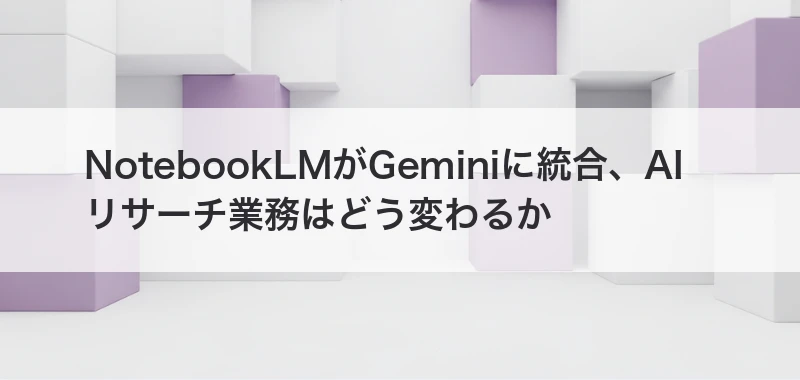
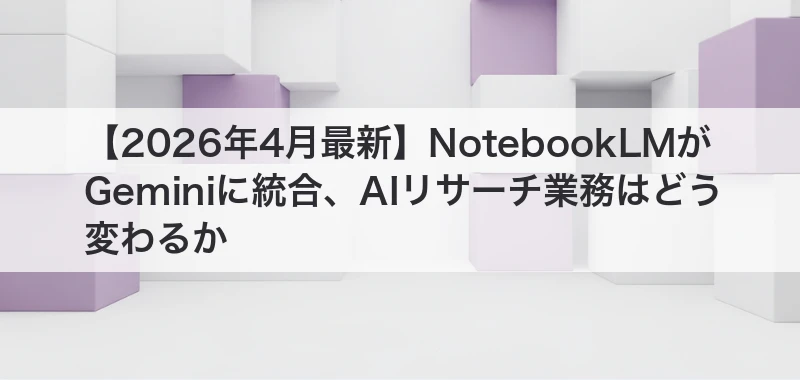
Refine blog096 sourcing and guidance

Changed region(s): [[0.0938, 0.3184, 0.9062, 0.6658]]

diff --git a/blogs/blog096.html b/blogs/blog096.html
@@ -143,10 +143,11 @@
                 </p>
 
                 <p>
-                    【公式情報】Notebooksはプロジェクト単位の<strong>個人ナレッジベース</strong>として機能する。
-                    PDFファイル、Googleドキュメント、Webサイト、コピーしたテキストなどを
-                    ソースとして取り込み、Geminiはそのソースを根拠にして回答を生成する。
-                    ソースを追加すればGeminiとNotebookLMの両方に自動で反映される。
+                    【公式情報】Gemini Apps Helpでは、Notebooksは
+                    <strong>「専用の集中スペース」</strong>として説明されており、
+                    ソース、指示、進行中の議論を継続的に記憶したまま会話できる。
+                    さらにNotebookLMと情報が同期されるため、
+                    ファイルやURLを追加するとGemini側とNotebookLM側の両方で同じ文脈を共有できる。
                 </p>
 
                 <figure class="article-figure">
@@ -176,43 +177,44 @@
                             </tr>
                             <tr>
                                 <th>ソース上限</th>
-                                <td>最大100件</td>
-                                <td>プロジェクト規模の資料を一括管理可能</td>
+                                <td>プランに応じて拡大。現行ヘルプでは最大600件</td>
+                                <td>提案書・競合調査・社内文書を1冊に寄せやすい</td>
                             </tr>
                             <tr>
-                                <th>対象ユーザー</th>
-                                <td>Google AI Ultra / Pro / Plus（ウェブ版から順次）</td>
-                                <td>モバイル・無料ユーザーは数週間後に拡大予定</td>
+                                <th>利用条件</th>
+                                <td>現行ヘルプでは個人Googleアカウント向け。仕事/学校アカウントは未対応</td>
+                                <td>まず個人検証から始める前提で見た方がよい</td>
                             </tr>
                         </tbody>
                     </table>
                 </div>
 
                 <p>
-                    【公式情報】NotebookLM側の新機能も同時に発表されており、
-                    <strong>ビデオオーバービュー</strong>や<strong>インフォグラフィック</strong>の自動生成も
-                    Notebooks経由でシームレスにアクセスできる。
+                    【公式情報】NotebookLM Helpでは、ノートブック内のStudio機能として
+                    <strong>Audio Overview、Video Overviews、Mind Maps、Reports、Slide Decks、Infographics</strong>
+                    などの生成が案内されている。
                     つまり今回の発表は、単なるツール統合ではなく、
-                    <strong>情報インプットからアウトプットまでを1つのプラットフォームで完結させる設計</strong>だと理解した方がよい。
+                    <strong>情報収集、会話、資料化までを1つの作業面に寄せる設計</strong>だと理解した方がよい。
                 </p>
 
                 <h2 id="section2">2. NotebookLM×Gemini統合はなぜ重要なのか</h2>
 
                 <p>
                     これまでAIチャットで業務リサーチをする際、最大の課題は
-                    <strong>ハルシネーション（事実に基づかない回答）</strong>だった。
-                    ChatGPTやGeminiに業界レポートの要約を頼んでも、
-                    元資料にない数字や事例が混入するリスクがあるため、
-                    結局人間がファクトチェックする必要があった。
+                    <strong>「どこまでを根拠に答えているのかが曖昧」</strong>なことだった。
+                    汎用AIに業界レポートの要約を頼むと、
+                    手元資料の内容とWeb上の一般知識が混ざりやすく、
+                    結局人間が「どの数字がどの資料由来か」を再確認する必要があった。
                 </p>
 
                 <p>
-                    NotebookLMは、指定したソースの内容だけに基づいて回答する
-                    <strong>「グラウンディング」</strong>方式を採用しているため、
-                    汎用チャットと比べて根拠のない回答が大幅に減る。
-                    ある調査報告によれば、グラウンディング非対応のAIチャットでの
-                    ハルシネーション率が約40%だったのに対し、
-                    NotebookLMでは約13%にとどまったとされる。
+                    【公式情報】NotebookLM Helpでは、
+                    ノートブックは<strong>特定プロジェクト向けのソース集合</strong>として扱われ、
+                    Chatパネルではそのソースについて質問したり、
+                    指示を出して作業させたりできると説明されている。
+                    Gemini側のNotebooksも、ソースと指示と会話を継続保持するため、
+                    AIを「何でも答える相手」ではなく
+                    <strong>選んだ資料だけを前提に考える相手</strong>へ近づけられる。
                 </p>
 
                 <div class="diagram-container">
@@ -243,13 +245,11 @@
                 </div>
 
                 <p>
-                    【解釈】中小企業にとってこの統合が重要なのは、
-                    <strong>リサーチの精度と速度を同時に上げられる</strong>可能性があるからだ。
-                    これまでは「AIは速いが信用できない」という理由で
-                    結局手作業に戻るケースが多かった。
-                    グラウンディング付きのAIリサーチなら、
-                    提案書や競合調査のベース作成をAIに任せつつ、
-                    根拠の確認コストを下げられる。
+                    【解釈】中小企業にとって重要なのは、
+                    <strong>検索と会話を分けずに、案件単位の文脈を維持できる</strong>ことだ。
+                    競合調査、提案書作成、社内FAQ整備のような仕事では、
+                    1回の回答精度よりも「前提資料を持ったまま会話を続けられるか」が効く。
+                    Notebooksは、この継続文脈をGemini本体に持ち込んだ点に価値がある。
                 </p>
 
                 <h2 id="section3">3. ビジネスリサーチと提案業務で何が変わるか</h2>
@@ -294,10 +294,12 @@
                 </div>
 
                 <p>
-                    【公式情報】Gemini NotebooksにはPersistent Memory（永続記憶）機能もあり、
-                    過去のチャット内容やカスタム指示を保持できる。
-                    これは長期プロジェクトの調査やクライアント別の提案作成で特に有効だ。
-                    「先週の会話を覚えていないから、また最初から説明する」という問題が起きにくくなる。
+                    【公式情報】Gemini Apps Helpでは、
+                    Notebooksは<strong>継続チャット</strong>として動作し、
+                    ソース、指示、進行中の議論を記憶すると案内されている。
+                    また、既存チャットをノートブックへ追加でき、
+                    その内容はNotebookLM側にも同期される。
+                    長期案件ほど「前回の前提説明を毎回やり直す」負担を減らしやすい。
                 </p>
 
                 <p>
@@ -312,6 +314,11 @@
                 <p>
                     Notebooksは有料プランで利用可能になっている。
                     全社導入の前に、まず個人レベルで以下の3つを試すとよい。
+                    このテーマを選んだ理由もここにある。AIが苦手な人は
+                    「AI 資料 要約 方法」「提案書 AI まとめ方」「社内マニュアル AI 検索」
+                    のように検索しやすく、すでにAIを使っている人は
+                    「このPDF群を根拠に比較表を作って」「過去提案を参照して骨子を作って」
+                    のようなプロンプトを投げやすい。
                 </p>
 
                 <div class="diagram-container">
@@ -341,6 +348,19 @@
                     AIに聞く前に「どの資料を根拠にするか」を自分で選べるのが、
                     汎用チャットとの最大の違いだ。
                 </p>
+                <div class="code-block">
+                    <div class="code-block-header">
+                        <span class="code-block-dot red"></span>
+                        <span class="code-block-dot yellow"></span>
+                        <span class="code-block-dot green"></span>
+                        <span class="code-block-label">prompt examples</span>
+                    </div>
+                    <pre><code>この市場レポート3本と競合サイトURLを根拠に、比較表を作って。根拠にしたソース名も併記して。
+
+この顧客要件書と過去提案書2本をもとに、提案骨子を3案出して。資料にないことは推測と明記して。
+
+この社内マニュアル群を読んで、新人が最初の1週間で読むべき順番と想定Q&amp;Aを20問作って。</code></pre>
+                </div>
 
                 <h3>Step 2：社内マニュアルをAI検索可能にする</h3>
                 <p>
@@ -408,11 +428,13 @@
                 </div>
 
                 <p>
-                    また、NotebookLM Plusは月額20ドル（Google One AI Premiumに含まれる）、
-                    Enterprise版はGoogle Cloud経由でVPC-SC対応・IAM管理が可能だが、
-                    <strong>Enterprise版は中小企業にはオーバースペックな場合が多い</strong>。
-                    まずは個人プランで業務フィットを検証し、
-                    効果が確認できてから組織導入を検討する方が合理的だ。
+                    また、Google OneとGemini/NotebookLMの公式ヘルプでは、
+                    ソース上限がプランに応じて増え、
+                    NotebookLM Plusで100件、Google AI Proで300件、
+                    Google AI Ultraで600件まで拡張されると案内されている。
+                    逆に言えば、まずは
+                    <strong>1冊に何件の資料を入れたいか</strong>を決めないまま上位プランへ進む必要はない。
+                    多くの中小企業は、1案件30〜50件程度の資料整理から始めれば十分だ。
                 </p>
 
                 <h2 id="section6">6. まとめ：AIリサーチは「聞く」から「知識ベースに問う」へ</h2>
@@ -438,8 +460,10 @@
                     <div class="ref-title">参考リンク</div>
                     <ul>
                         <li><a href="https://blog.google/innovation-and-ai/products/gemini-app/notebooks-gemini-notebooklm/" target="_blank" rel="noopener">Google公式：Try notebooks in Gemini to easily keep track of projects（2026年4月8日）</a></li>
-                        <li><a href="https://9to5google.com/2026/04/08/gemini-app-notebooks/" target="_blank" rel="noopener">9to5Google：Gemini app rolling out 'notebooks' to organize chats & files, integrates with NotebookLM</a></li>
-                        <li><a href="https://www.buildfastwithai.com/blogs/notebooklm-added-to-gemini-notebooks" target="_blank" rel="noopener">BuildFastWithAI：Google Adds Notebooks to Gemini: What Changed?</a></li>
+                        <li><a href="https://support.google.com/gemini/answer/16972047?hl=en&ref_topic=13194540" target="_blank" rel="noopener">Gemini Apps Help：Create and use notebooks in Gemini Apps</a></li>
+                        <li><a href="https://support.google.com/gemini/answer/14903178?co=GENIE.Platform%3DDesktop&hl=en" target="_blank" rel="noopener">Gemini Apps Help：Upload &amp; analyze files in Gemini Apps</a></li>
+                        <li><a href="https://support.google.com/notebooklm/answer/16206563" target="_blank" rel="noopener">NotebookLM Help：Create a notebook in NotebookLM</a></li>
+                        <li><a href="https://support.google.com/googleone/answer/16105039?hl=en" target="_blank" rel="noopener">Google One Help：Google One benefit restrictions</a></li>
                     </ul>
                 </div>
 
